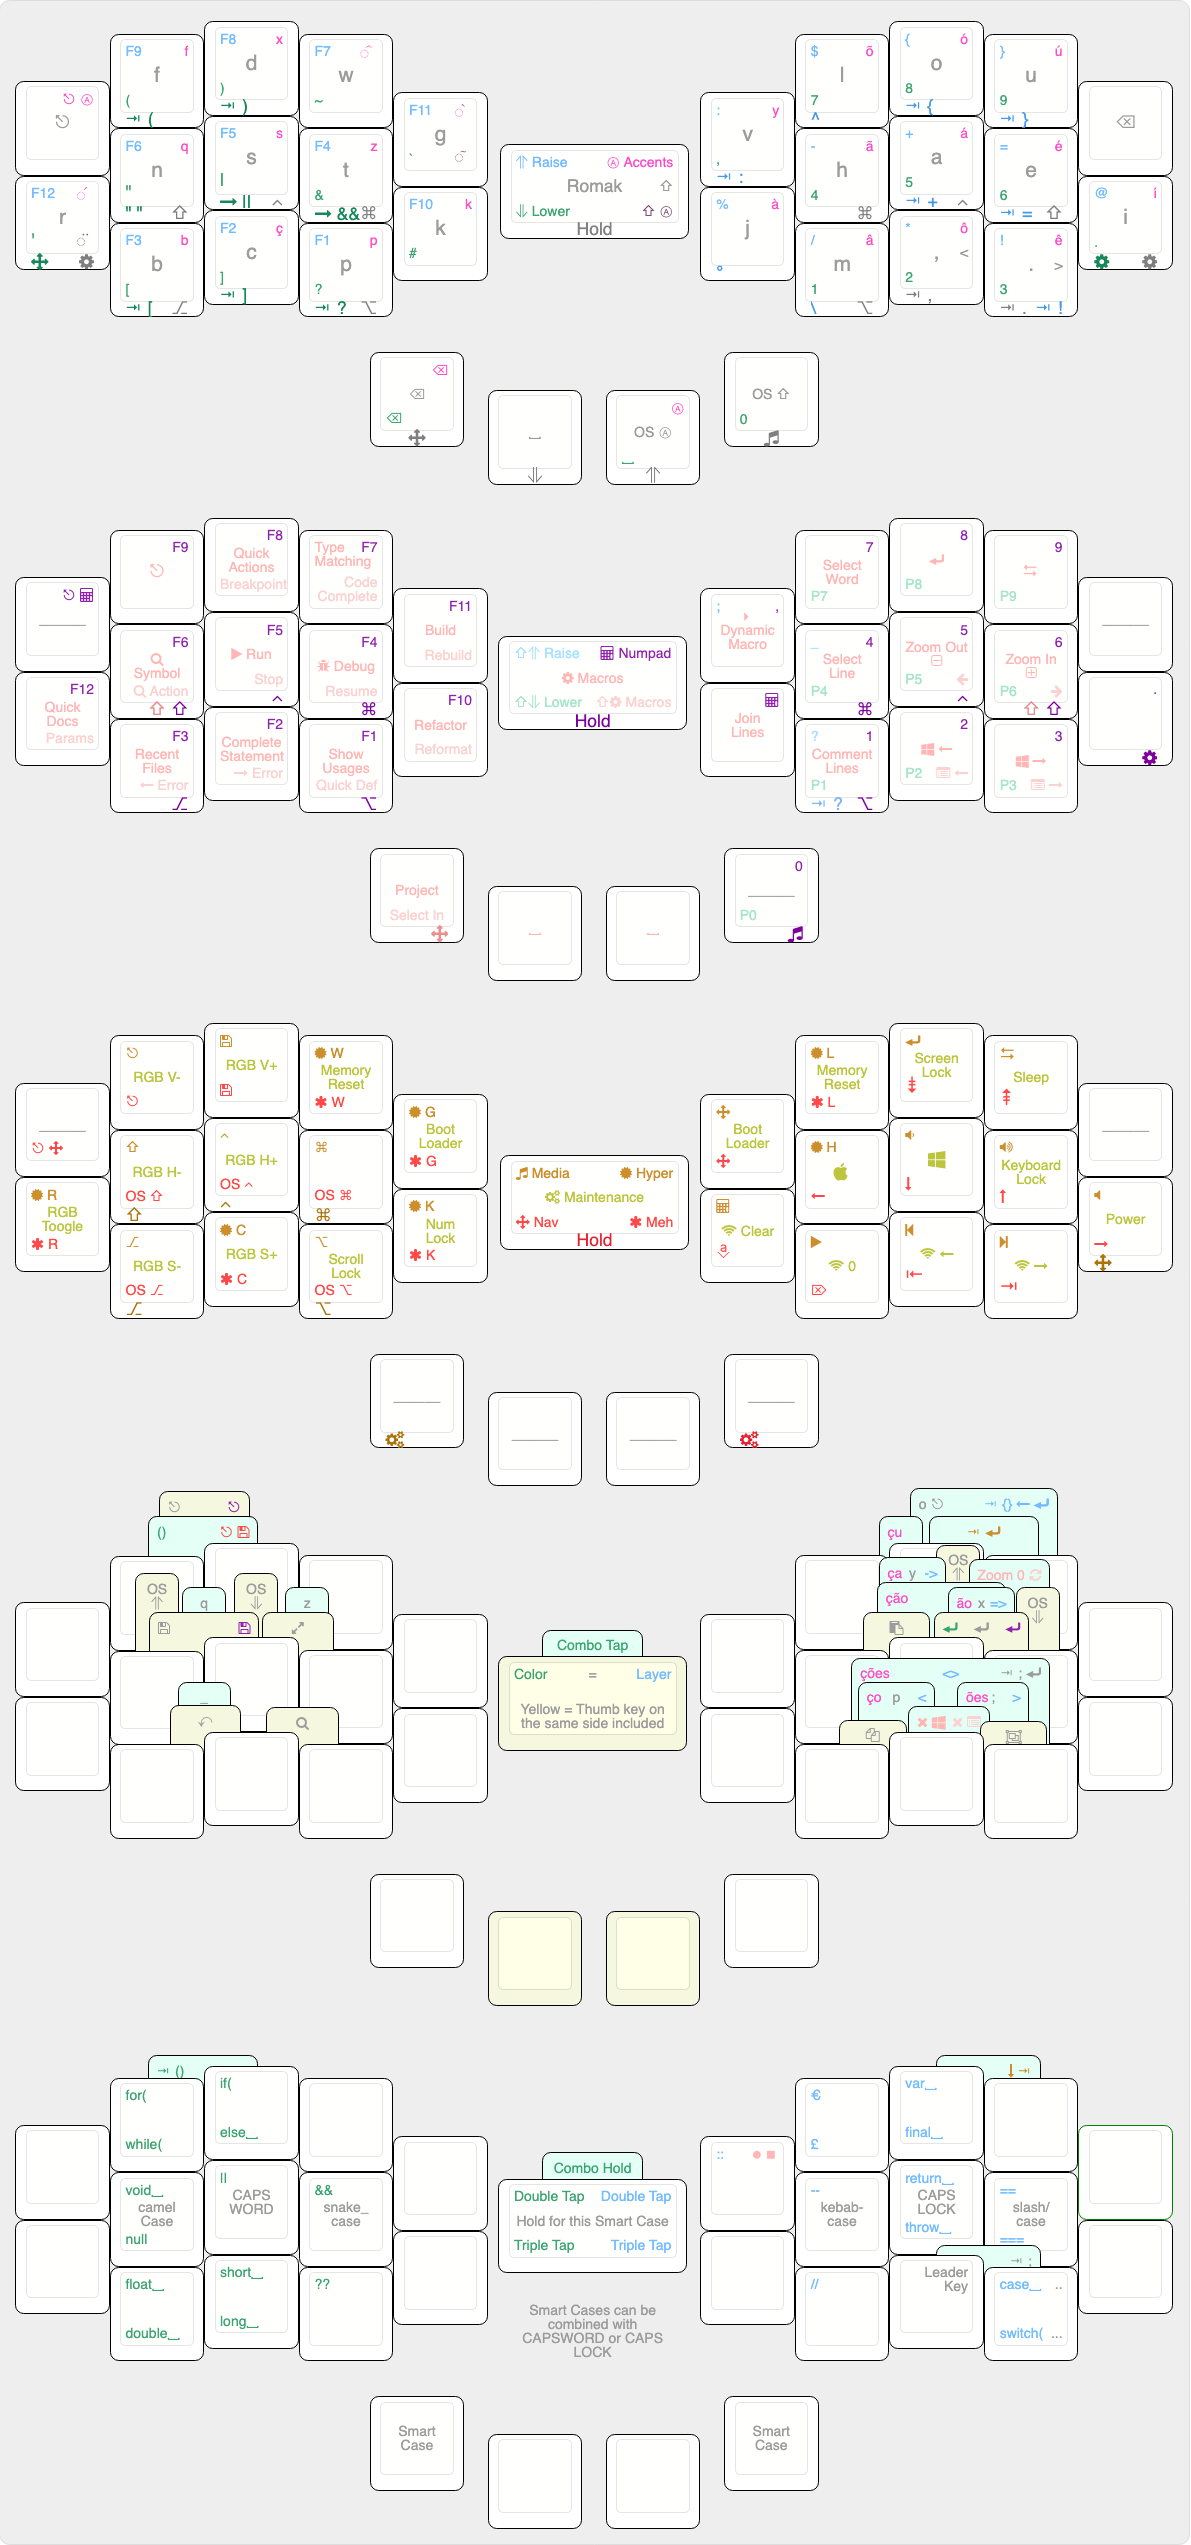
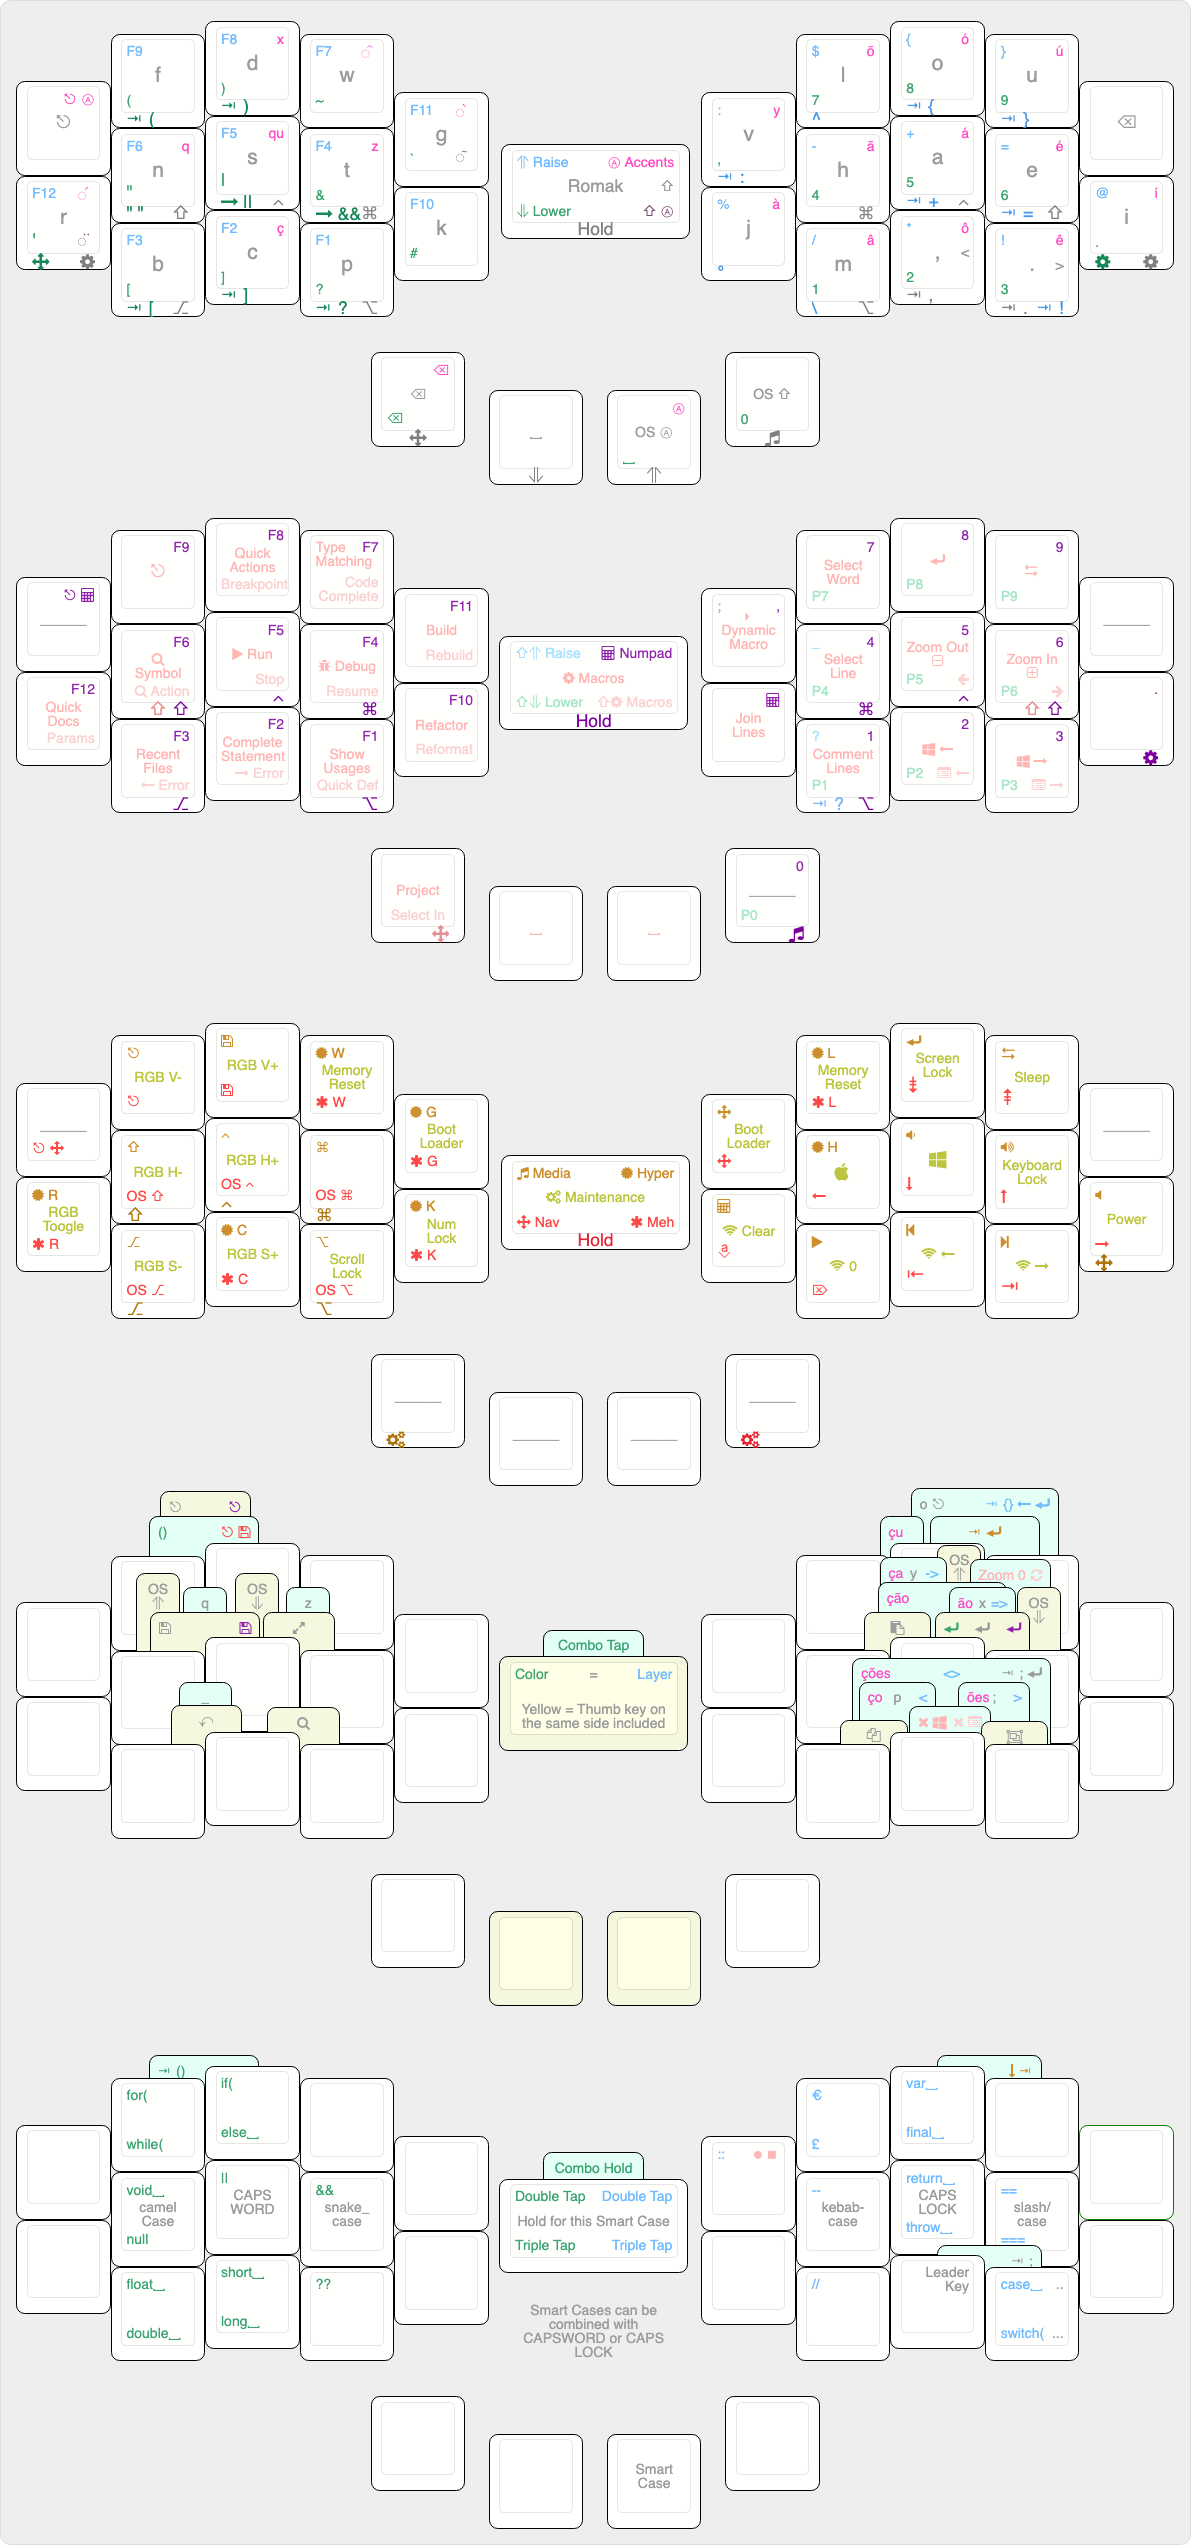
add hypers and mehs

diff --git a/src/qmk/users/rafaelromao/features/combos.c b/src/qmk/users/rafaelromao/features/combos.c
@@ -18,6 +18,7 @@ const uint16_t PROGMEM r_low_ent_combo[] = {RAI_ACT, KC_5, KC_6, COMBO_END};
 const uint16_t PROGMEM r_rai_cur_combo[] = {TD_LCRB, TD_RCRB, COMBO_END};
 const uint16_t PROGMEM r_rai_lt_combo[]  = {TD_SLSH, KC_ASTR, COMBO_END};
 const uint16_t PROGMEM r_rai_gt_combo[]  = {KC_ASTR, TD_NOT, COMBO_END};
+const uint16_t PROGMEM r_rai_ltgt_combo[] = {TD_SLSH, KC_ASTR, TD_NOT, COMBO_END};
 const uint16_t PROGMEM r_rai_sar_combo[] = {KC_MINS, TD_PLUS, COMBO_END};
 const uint16_t PROGMEM r_rai_dar_combo[] = {TD_PLUS, TD_EQL, COMBO_END};
 
@@ -75,18 +76,18 @@ const uint16_t PROGMEM r_rom_sce_combo[] = {LALTT_M, TD_COMM, TD_DOT, COMBO_END}
 const uint16_t PROGMEM secret_1_combo[] = {SEC_1, SEC_2, SEC_3, SEC_4, COMBO_END};
 
 combo_t key_combos[COMBO_COUNT] = {
-    COMBO(l_rom_q_combo, KC_Q),      COMBO(r_rom_y_combo, KC_Y),        COMBO(l_rom_z_combo, KC_Z),
-    COMBO(r_rom_x_combo, KC_X),      COMBO(l_num_esc_combo, KC_ESC),    COMBO(l_nav_esv_combo, MC_ESAV),
-    COMBO(l_num_sav_combo, MC_SAVE), COMBO(r_num_ent_combo, KC_ENT),    COMBO(l_low_par_combo, TD_PARN),
-    COMBO(r_low_ent_combo, KC_ENT),  COMBO(r_ng_ao_combo, MC_AO),       COMBO(r_ng_cu_combo, MC_CU),
-    COMBO(r_ng_ca_combo, MC_CA),     COMBO(r_ng_co_combo, MC_CO),       COMBO(r_ng_cao_combo, MC_CAO),
-    COMBO(r_ng_oes_combo, MC_OES),   COMBO(r_ng_coes_combo, MC_COES),   COMBO(r_mac_z0r_combo, MC_Z0R),
-    COMBO(r_mac_clo_combo, MC_CLOS), COMBO(r_rom_cop_combo, MC_COPY),   COMBO(r_rom_sco_combo, TD_SCLE),
-    COMBO(l_rom_usc_combo, MC_UNDS), COMBO(l_rom_ful_combo, MC_FULL),   COMBO(r_rom_p_combo, KC_P),
-    COMBO(r_rom_pas_combo, MC_PAST), COMBO(l_rom_rai_combo, OS_RAI),    COMBO(l_rom_low_combo, OS_LOW),
-    COMBO(l_rom_sav_combo, MC_SAVE), COMBO(l_rom_esc_combo, KC_ESC),    COMBO(l_rom_und_combo, MC_UNDO),
-    COMBO(r_rom_sce_combo, MC_SENT), COMBO(l_rom_fin_combo, MC_FIND),   COMBO(r_rom_oes_combo, MC_OESC),
-    COMBO(r_rom_low_combo, OS_LOW),  COMBO(r_rom_rai_combo, OS_RAI),    COMBO(r_rom_ent_combo, KC_ENT),
-    COMBO(r_rom_sal_combo, MC_SELC), COMBO(r_rai_sar_combo, MC_SAR),    COMBO(r_rai_dar_combo, MC_DAR),
-    COMBO(r_rai_lt_combo, TD_LT),    COMBO(r_rai_gt_combo, TD_GT),      COMBO(r_rai_cur_combo, MC_CUR),
-    COMBO(r_med_ent_combo, TD_EENT), COMBO(secret_1_combo, MC_SECRET_1)};
+    COMBO(l_rom_q_combo, KC_Q),       COMBO(r_rom_y_combo, KC_Y),      COMBO(l_rom_z_combo, KC_Z),
+    COMBO(r_rom_x_combo, KC_X),       COMBO(l_num_esc_combo, KC_ESC),  COMBO(l_nav_esv_combo, MC_ESAV),
+    COMBO(l_num_sav_combo, MC_SAVE),  COMBO(r_num_ent_combo, KC_ENT),  COMBO(l_low_par_combo, TD_PARN),
+    COMBO(r_low_ent_combo, KC_ENT),   COMBO(r_ng_ao_combo, MC_AO),     COMBO(r_ng_cu_combo, MC_CU),
+    COMBO(r_ng_ca_combo, MC_CA),      COMBO(r_ng_co_combo, MC_CO),     COMBO(r_ng_cao_combo, MC_CAO),
+    COMBO(r_ng_oes_combo, MC_OES),    COMBO(r_ng_coes_combo, MC_COES), COMBO(r_mac_z0r_combo, MC_Z0R),
+    COMBO(r_mac_clo_combo, MC_CLOS),  COMBO(r_rom_cop_combo, MC_COPY), COMBO(r_rom_sco_combo, TD_SCLE),
+    COMBO(l_rom_usc_combo, MC_UNDS),  COMBO(l_rom_ful_combo, MC_FULL), COMBO(r_rom_p_combo, KC_P),
+    COMBO(r_rom_pas_combo, MC_PAST),  COMBO(l_rom_rai_combo, OS_RAI),  COMBO(l_rom_low_combo, OS_LOW),
+    COMBO(l_rom_sav_combo, MC_SAVE),  COMBO(l_rom_esc_combo, KC_ESC),  COMBO(l_rom_und_combo, MC_UNDO),
+    COMBO(r_rom_sce_combo, MC_SENT),  COMBO(l_rom_fin_combo, MC_FIND), COMBO(r_rom_oes_combo, MC_OESC),
+    COMBO(r_rom_low_combo, OS_LOW),   COMBO(r_rom_rai_combo, OS_RAI),  COMBO(r_rom_ent_combo, KC_ENT),
+    COMBO(r_rom_sal_combo, MC_SELC),  COMBO(r_rai_sar_combo, MC_SAR),  COMBO(r_rai_dar_combo, MC_DAR),
+    COMBO(r_rai_ltgt_combo, MC_LTGT), COMBO(r_rai_lt_combo, TD_LT),    COMBO(r_rai_gt_combo, TD_GT),
+    COMBO(r_rai_cur_combo, MC_CUR),   COMBO(r_med_ent_combo, TD_EENT), COMBO(secret_1_combo, MC_SECRET_1)};

diff --git a/src/qmk/users/rafaelromao/definitions/keymap_blocks.h b/src/qmk/users/rafaelromao/definitions/keymap_blocks.h
@@ -26,7 +26,7 @@
 #define ____NUMPAD_R4____                               RAI_SPC , MED_0
 
 #define ___________________ACCENT_L1_________           _______ , _______ , KC_X    , KC_CIRC 
-#define ___________________ACCENT_L2___________________ KC_QUOT , KC_Q    , _______ , KC_Z    , KC_GRV
+#define ___________________ACCENT_L2___________________ KC_QUOT , KC_Q    , MC_QU   , KC_Z    , KC_GRV
 #define           _________ACCENT_L3___________________           _______ , MC_SQ_C , _______ , _______
 #define                               ____ACCENT_L4____                               KC_BSPC , KC_SPC
 
@@ -65,9 +65,9 @@
 #define ___________________RAISE_R3__________           TD_PERC , TD_SLSH , KC_ASTR , TD_NOT   
 #define ____RAISE_R4_____                               _______ , _______
 
-#define ___________________MEDIA_L1__________           _______ , MC_ESC  , MC_SAVE , KC_RALT 
-#define ___________________MEDIA_L2____________________ XXXXXXX , KC_LSFT , KC_LCTL , KC_LGUI , KC_LGUI
-#define           _________MEDIA_L3____________________           KC_RALT , XXXXXXX , KC_LALT , XXXXXXX
+#define ___________________MEDIA_L1__________           _______ , MC_ESC  , MC_SAVE , HYPR_W  
+#define ___________________MEDIA_L2____________________ HYPR_R  , KC_LSFT , KC_LCTL , KC_LGUI , HYPR_G 
+#define           _________MEDIA_L3____________________           KC_RALT , HYPR_C  , KC_LALT , HYPR_K 
 #define                               ____MEDIA_L4_____                               MAI_BSP , _______
 
 #define           _________MEDIA_R1____________________           HYPR_L  , KC_ENT  , KC_TAB  , _______
@@ -75,12 +75,12 @@
 #define ___________________MEDIA_R3__________           TG_NUM  , KC_MPLY , KC_MPRV , KC_MNXT 
 #define ____MEDIA_R4_____                               _______ , _______
 
-#define ___________________NAVIGATION_L1_____           _______ , MC_ESC  , MC_SAVE , OS_RALT 
-#define ___________________NAVIGATION_L2_______________ MEH_R   , OS_LSFT , OS_LCTL , OS_LGUI , XXXXXXX
-#define           _________NAVIGATION_L3_______________           OS_RALT , XXXXXXX , OS_LALT , XXXXXXX
+#define ___________________NAVIGATION_L1_____           _______ , MC_ESC  , MC_SAVE , MEH_W 
+#define ___________________NAVIGATION_L2_______________ MEH_R   , OS_LSFT , OS_LCTL , OS_LGUI , MEH_G
+#define           _________NAVIGATION_L3_______________           OS_RALT , MEH_C   , OS_LALT , MEH_K
 #define                               __NAVIGATION_L4__                               _______ , _______
 
-#define           _________NAVIGATION_R1_______________           KC_APP  , KC_PGDN , KC_PGUP , _______
+#define           _________NAVIGATION_R1_______________           MEH_L   , KC_PGDN , KC_PGUP , _______
 #define ___________________NAVIGATION_R2_______________ TG_NAV  , KC_LEFT , KC_DOWN , KC_UP   , KC_RGHT
 #define ___________________NAVIGATION_R3_____           KC_INS  , KC_DEL  , KC_HOME , KC_END  
 #define __NAVIGATION_R4__                               _______ , MAI_CAS

diff --git a/src/qmk/users/rafaelromao/features/custom_oneshot.c b/src/qmk/users/rafaelromao/features/custom_oneshot.c
@@ -162,13 +162,6 @@ process_record_result_t process_custom_oneshot(uint16_t keycode, keyrecord_t *re
                     } else if (!IS_LAYER_ON(_ACCENT)) {
                         set_oneshot_layer(_ACCENT, ONESHOT_START);
                         custom_oneshots.timer = timer_read();
-                    } else {
-                        if (!isOneShotShift && get_mods() == 0) {
-                            add_oneshot_mods(MOD_LSFT);
-                        } else {
-                            clear_oneshot_layer_state(ONESHOT_PRESSED);
-                            clear_shift();
-                        }
                     }
                 }
                 return PROCESS_RECORD_RETURN_FALSE;
@@ -184,7 +177,7 @@ process_record_result_t process_custom_oneshot(uint16_t keycode, keyrecord_t *re
                     } else {
                         if (isAnyOneShotButShift || isOneShotLockedShift) {
                             clear_locked_and_oneshot_mods();
-                        } else if (!isOneShotShift && get_mods() == 0) {
+                        } else if (!isOneShotShift) {
                             add_oneshot_mods(MOD_LSFT);
                         } else {
                             set_smart_case_for_mods();

diff --git a/src/qmk/users/rafaelromao/features/smart_case.c b/src/qmk/users/rafaelromao/features/smart_case.c
@@ -136,15 +136,12 @@ process_record_result_t process_smart_case(uint16_t keycode, keyrecord_t *record
         switch (keycode) {
             case KC_SPC:
                 if (spacing) {
-                    if (has_smart_case(CAMEL_CASE) || has_smart_case(SNAKE_CASE) || has_smart_case(KEBAB_CASE) ||
-                        has_smart_case(SLASH_CASE)) {
-                        if (has_smart_case(SNAKE_CASE) || has_smart_case(KEBAB_CASE) || has_smart_case(SLASH_CASE)) {
-                            tap_code(KC_BSPC);
-                        }
-                        tap_code(KC_SPC);
-                        disable_smart_case();
-                        return PROCESS_RECORD_RETURN_FALSE;
+                    if (has_smart_case(SNAKE_CASE) || has_smart_case(KEBAB_CASE) || has_smart_case(SLASH_CASE)) {
+                        tap_code(KC_BSPC);
                     }
+                    tap_code(KC_SPC);
+                    disable_smart_case();
+                    return PROCESS_RECORD_RETURN_FALSE;
                 } else {
                     spacing = true;
                 }

diff --git a/src/qmk/users/rafaelromao/definitions/keycodes.h b/src/qmk/users/rafaelromao/definitions/keycodes.h
@@ -99,7 +99,7 @@ enum {
     MC_BTIC, MC_DQUO, MC_SQUO, MC_CIRC, MC_TILD,
     MC_UNDS, MC_ENT, MC_TAB, MC_ESC, MC_ESCC,  
     MC_ESAV, MC_SENT, MC_CUR, MC_SAR, MC_DAR, 
-    MC_DAND, MC_DPIP, MC_OESC,
+    MC_DAND, MC_DPIP, MC_OESC, MC_LTGT, 
 
     // End macros that can be shifted
     SFT_MACRO_END,
@@ -184,9 +184,19 @@ enum {
 
 // Custom Shortcuts
 
-#define HYPR_L HYPR(KC_L)
 #define HYPR_H HYPR(KC_H)
+#define HYPR_R HYPR(KC_R)
+#define HYPR_W HYPR(KC_W)
+#define HYPR_G HYPR(KC_G)
+#define HYPR_K HYPR(KC_K)
+#define HYPR_C HYPR(KC_C)
+#define HYPR_L HYPR(KC_L)
 #define MEH_R  MEH(KC_R)
+#define MEH_W  MEH(KC_W)
+#define MEH_G  MEH(KC_G)
+#define MEH_K  MEH(KC_K)
+#define MEH_C  MEH(KC_C)
+#define MEH_L  MEH(KC_L)
 
 uint16_t extract_base_tapping_keycode(uint16_t keycode);
 bool is_key_on_tap(uint16_t keycode);

diff --git a/src/qmk/users/rafaelromao/features/macros.c b/src/qmk/users/rafaelromao/features/macros.c
@@ -38,6 +38,14 @@ process_record_result_t process_macro_keycode(uint16_t keycode, bool isOneShotSh
             tap_code16(KC_EQL);
             tap_code16(KC_GT);
             return PROCESS_RECORD_RETURN_FALSE;
+        case MC_QU:
+            tap_code(KC_Q);
+            tap_code(KC_U);
+            return PROCESS_RECORD_RETURN_FALSE;
+        case MC_LTGT:
+            tap_code16(KC_LT);
+            tap_code16(KC_GT);
+            return PROCESS_RECORD_RETURN_FALSE;
 
             // O + ESC
 

diff --git a/src/qmk/users/rafaelromao/config.h b/src/qmk/users/rafaelromao/config.h
@@ -23,7 +23,7 @@
 #define LEADER_NO_TIMEOUT
 
 // Configure combos
-#define COMBO_COUNT 44
+#define COMBO_COUNT 45
 #define COMBO_TERM 30
 #define EXTRA_SHORT_COMBOS
 #define COMBO_STRICT_TIMER
